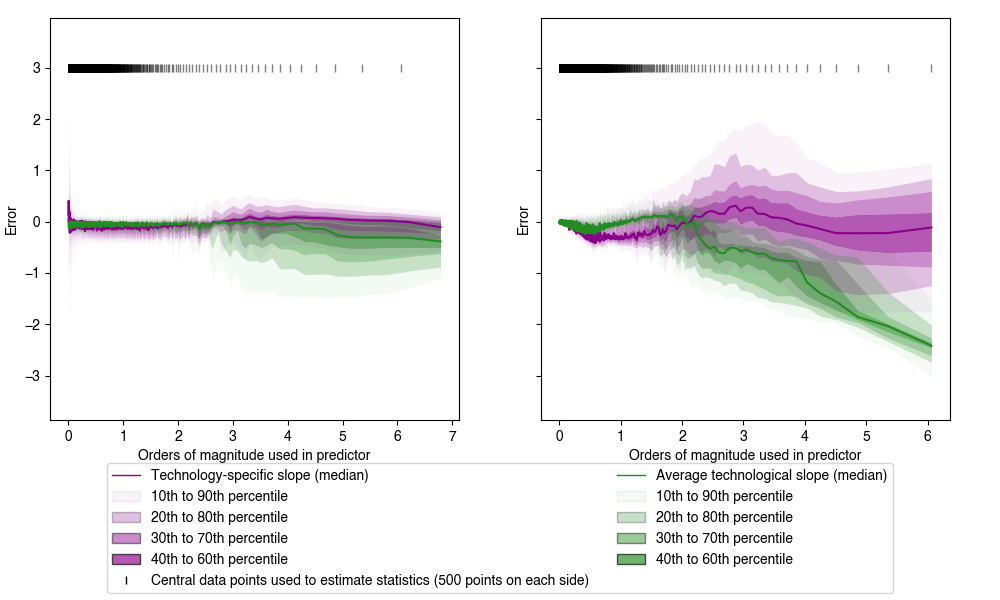
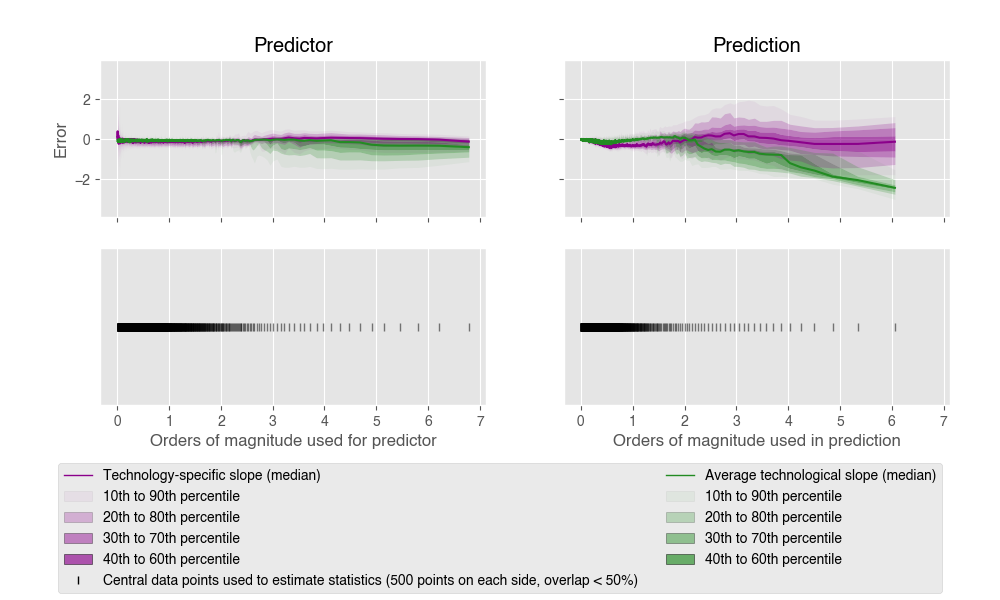
updated figures for clarity

diff --git a/Method2.py b/Method2.py
@@ -8,7 +8,7 @@ from mpl_toolkits.mplot3d import axes3d
 import cmcrameri as cm
 rc('font',**{'family':'sans-serif','sans-serif':['Helvetica']})
 matplotlib.rcParams['pdf.fonttype'] = 42
-
+matplotlib.style.use('ggplot')
 df = pd.read_csv('ExpCurves.csv')
 # df = pd.read_csv('NormalizedExpCurves.csv')
 # df['Cumulative production'] = df['Normalized cumulative production']
@@ -149,50 +149,48 @@ ptiles2_or = np.array(ptiles2_or)
 ptiles_on = np.array(ptiles_on)
 ptiles2_on = np.array(ptiles2_on)
 
-fig, ax = plt.subplots(1,2, sharey=True, figsize=(10,6))
-ax[0].plot(dxsor_plot, ptiles_or[:,4], color='darkmagenta')
-ax[0].plot(dxsor_plot, ptiles2_or[:,4], color='forestgreen')
+fig, ax = plt.subplots(2,2, sharey='row', figsize=(10,6), sharex=True)
+ax[0][0].plot(dxsor_plot, ptiles_or[:,4], color='darkmagenta')
+ax[0][0].plot(dxsor_plot, ptiles2_or[:,4], color='forestgreen')
 for idx in range(3,-1,-1):
-	ax[0].fill_between(dxsor_plot, ptiles_or[:,idx], 
+	ax[0][0].fill_between(dxsor_plot, ptiles_or[:,idx], 
 		    ptiles_or[:,idx+1], alpha=0.05+idx*0.2,
 			  color='darkmagenta', lw=0)
-	ax[0].fill_between(dxsor_plot, ptiles_or[:,-idx-1], 
+	ax[0][0].fill_between(dxsor_plot, ptiles_or[:,-idx-1], 
 		    ptiles_or[:,-(idx+1)-1], alpha=0.05+idx*0.2,
 			  color='darkmagenta', lw=0)
-	ax[0].fill_between(dxsor_plot, ptiles2_or[:,idx], 
+	ax[0][0].fill_between(dxsor_plot, ptiles2_or[:,idx], 
 		    ptiles2_or[:,idx+1], alpha=0.05+idx*0.2,
 			  color='forestgreen', lw=0)
-	ax[0].fill_between(dxsor_plot, ptiles2_or[:,-idx-1], 
+	ax[0][0].fill_between(dxsor_plot, ptiles2_or[:,-idx-1], 
 		    ptiles2_or[:,-(idx+1)-1], alpha=0.05+idx*0.2,
 			  color='forestgreen', lw=0)
-ax02 = ax[0].twinx()
-ax02.plot(dxsor_plot, count_or, color='k', zorder=-1)
-ax02.set_yscale('log', base=10)
-ax02.set_ylabel('Number of data points')
-ax[0].set_xlabel('Orders of magnitude used in predictor')
-ax[0].set_ylabel('Error')
+ax[1][0].plot(dxsor_plot, count_or, color='k', zorder=-1)
+ax[1][0].set_yscale('log', base=10)
+ax[1][0].set_ylabel('Number of data points')
+ax[1][0].set_xlabel('Orders of magnitude used for predictor')
+ax[0][0].set_ylabel('Error')
 
-ax[1].plot(dxson_plot, ptiles_on[:,4], color='darkmagenta')
-ax[1].plot(dxson_plot, ptiles2_on[:,4], color='forestgreen')
+ax[0][1].plot(dxson_plot, ptiles_on[:,4], color='darkmagenta')
+ax[0][1].plot(dxson_plot, ptiles2_on[:,4], color='forestgreen')
 for idx in range(3,-1,-1):
-	ax[1].fill_between(dxson_plot, ptiles_on[:,idx], 
+	ax[0][1].fill_between(dxson_plot, ptiles_on[:,idx], 
 		    ptiles_on[:,idx+1], alpha=0.05+idx*0.2,
 			  color='darkmagenta', lw=0)
-	ax[1].fill_between(dxson_plot, ptiles_on[:,-idx-1], 
+	ax[0][1].fill_between(dxson_plot, ptiles_on[:,-idx-1], 
 		    ptiles_on[:,-(idx+1)-1], alpha=0.05+idx*0.2,
 			  color='darkmagenta', lw=0)
-	ax[1].fill_between(dxson_plot, ptiles2_on[:,idx], 
+	ax[0][1].fill_between(dxson_plot, ptiles2_on[:,idx], 
 		    ptiles2_on[:,idx+1], alpha=0.05+idx*0.2,
 			  color='forestgreen', lw=0)
-	ax[1].fill_between(dxson_plot, ptiles2_on[:,-idx-1], 
+	ax[0][1].fill_between(dxson_plot, ptiles2_on[:,-idx-1], 
 		    ptiles2_on[:,-(idx+1)-1], alpha=0.05+idx*0.2,
 			  color='forestgreen', lw=0)
-ax12 = ax[1].twinx()
-ax12.plot(dxson_plot, count_on, color='k', zorder=-1)
-ax12.set_yscale('log', base=10)
-ax12.set_ylabel('Number of data points')
-ax[1].set_xlabel('Orders of magnitude used in prediction')
-ax[1].set_ylabel('Error')
+ax[1][1].plot(dxson_plot, count_on, color='k')
+ax[1][1].set_yscale('log', base=10)
+# ax[1][1].set_ylabel('Number of data points')
+ax[1][1].set_xlabel('Orders of magnitude used in prediction')
+# ax[0][1].set_ylabel('Error')
 
 legend_elements = [matplotlib.lines.Line2D([0],[0], color='darkmagenta', lw=1, label='Technology-specific slope (median)'),
 		   matplotlib.lines.Line2D([0],[0], color='forestgreen', lw=1, label='Average technological slope (median)'),
@@ -204,11 +202,14 @@ legend_elements = [matplotlib.lines.Line2D([0],[0], color='darkmagenta', lw=1, l
 		   matplotlib.patches.Patch(facecolor='forestgreen', edgecolor='k', alpha=0.45, label='30th to 70th percentile'),
 		   matplotlib.patches.Patch(facecolor='darkmagenta', edgecolor='k', alpha=0.65, label='40th to 60th percentile'),
 		   matplotlib.patches.Patch(facecolor='forestgreen', edgecolor='k', alpha=0.65, label='40th to 60th percentile'),
-		   matplotlib.lines.Line2D([0],[0], color='k', lw=1, label='Number of data points used to estimate statistics')]
+		   matplotlib.lines.Line2D([0],[0], color='k', lw=1, label='Number of data points used to estimate statistics ('+str(int(ndx))+' intervals)')]
 order = [0,2,4,6,8,10,1,3,5,7,9]
 legend_elements = [legend_elements[x] for x in order]
 fig.legend(handles=legend_elements, ncol=2, loc='lower center')
-fig.subplots_adjust(bottom=0.3, right=0.95, left=0.05, top=0.97)
+fig.subplots_adjust(bottom=0.325, right=0.95, left=0.1, top=0.9)
+ax[0][0].set_title('Predictor')
+ax[0][1].set_title('Prediction')
+# plt.show()
 
 # plt.show()
 
@@ -243,44 +244,46 @@ ptiles2_or = np.array(ptiles2_or)
 ptiles_on = np.array(ptiles_on)
 ptiles2_on = np.array(ptiles2_on)
 
-fig, ax = plt.subplots(1,2, sharey=True, figsize=(10,6))
-ax[0].plot(xaxor, ptiles_or[:,4], color='darkmagenta')
-ax[0].plot(xaxor, ptiles2_or[:,4], color='forestgreen')
+fig, ax = plt.subplots(2,2, sharey='row', figsize=(10,6), sharex=True)
+ax[0][0].plot(xaxor, ptiles_or[:,4], color='darkmagenta')
+ax[0][0].plot(xaxor, ptiles2_or[:,4], color='forestgreen')
 for idx in range(3,-1,-1):
-	ax[0].fill_between(xaxor, ptiles_or[:,idx], 
+	ax[0][0].fill_between(xaxor, ptiles_or[:,idx], 
 		    ptiles_or[:,idx+1], alpha=0.05+idx*0.2,
 			  color='darkmagenta', lw=0)
-	ax[0].fill_between(xaxor, ptiles_or[:,-idx-1], 
+	ax[0][0].fill_between(xaxor, ptiles_or[:,-idx-1], 
 		    ptiles_or[:,-(idx+1)-1], alpha=0.05+idx*0.2,
 			  color='darkmagenta', lw=0)
-	ax[0].fill_between(xaxor, ptiles2_or[:,idx], 
+	ax[0][0].fill_between(xaxor, ptiles2_or[:,idx], 
 		    ptiles2_or[:,idx+1], alpha=0.05+idx*0.2,
 			  color='forestgreen', lw=0)
-	ax[0].fill_between(xaxor, ptiles2_or[:,-idx-1], 
+	ax[0][0].fill_between(xaxor, ptiles2_or[:,-idx-1], 
 		    ptiles2_or[:,-(idx+1)-1], alpha=0.05+idx*0.2,
 			  color='forestgreen', lw=0)
-ax[0].set_xlabel('Orders of magnitude used in predictor')
-ax[0].set_ylabel('Error')
+ax[1][0].set_xlabel('Orders of magnitude used for predictor')
+ax[0][0].set_ylabel('Error')
 
-ax[1].plot(xaxon, ptiles_on[:,4], color='darkmagenta')
-ax[1].plot(xaxon, ptiles2_on[:,4], color='forestgreen')
+ax[0][1].plot(xaxon, ptiles_on[:,4], color='darkmagenta')
+ax[0][1].plot(xaxon, ptiles2_on[:,4], color='forestgreen')
 for idx in range(3,-1,-1):
-	ax[1].fill_between(xaxon, ptiles_on[:,idx], 
+	ax[0][1].fill_between(xaxon, ptiles_on[:,idx], 
 		    ptiles_on[:,idx+1], alpha=0.05+idx*0.2,
 			  color='darkmagenta', lw=0)
-	ax[1].fill_between(xaxon, ptiles_on[:,-idx-1], 
+	ax[0][1].fill_between(xaxon, ptiles_on[:,-idx-1], 
 		    ptiles_on[:,-(idx+1)-1], alpha=0.05+idx*0.2,
 			  color='darkmagenta', lw=0)
-	ax[1].fill_between(xaxon, ptiles2_on[:,idx], 
+	ax[0][1].fill_between(xaxon, ptiles2_on[:,idx], 
 		    ptiles2_on[:,idx+1], alpha=0.05+idx*0.2,
 			  color='forestgreen', lw=0)
-	ax[1].fill_between(xaxon, ptiles2_on[:,-idx-1], 
+	ax[0][1].fill_between(xaxon, ptiles2_on[:,-idx-1], 
 		    ptiles2_on[:,-(idx+1)-1], alpha=0.05+idx*0.2,
 			  color='forestgreen', lw=0)
-ax[1].set_xlabel('Orders of magnitude used in predictor')
-ax[1].set_ylabel('Error')
-ax[0].plot(xaxon, 3*np.ones(len(xaxon)), color='k', marker='|',lw=0, alpha=0.5)
-ax[1].plot(xaxon, 3*np.ones(len(xaxon)), color='k', marker='|',lw=0, alpha=0.5)
+ax[1][1].set_xlabel('Orders of magnitude used in prediction')
+# ax[0][1].set_ylabel('Error')
+
+ax[1][0].plot(xaxor, 3*np.zeros(len(xaxor)), color='k', marker='|',lw=0, alpha=0.5)
+ax[1][1].plot(xaxon, 3*np.zeros(len(xaxon)), color='k', marker='|',lw=0, alpha=0.5)
+
 legend_elements = [matplotlib.lines.Line2D([0],[0], color='darkmagenta', lw=1, label='Technology-specific slope (median)'),
 		   matplotlib.lines.Line2D([0],[0], color='forestgreen', lw=1, label='Average technological slope (median)'),
 		   matplotlib.patches.Patch(facecolor='darkmagenta', edgecolor='k', alpha=0.05, label='10th to 90th percentile'),
@@ -291,11 +294,17 @@ legend_elements = [matplotlib.lines.Line2D([0],[0], color='darkmagenta', lw=1, l
 		   matplotlib.patches.Patch(facecolor='forestgreen', edgecolor='k', alpha=0.45, label='30th to 70th percentile'),
 		   matplotlib.patches.Patch(facecolor='darkmagenta', edgecolor='k', alpha=0.65, label='40th to 60th percentile'),
 		   matplotlib.patches.Patch(facecolor='forestgreen', edgecolor='k', alpha=0.65, label='40th to 60th percentile'),
-		   matplotlib.lines.Line2D([0],[0], color='k', lw=0, marker='|', label='Central data points used to estimate statistics ('+str(hnpoints)+' points on each side)')]
+		   matplotlib.lines.Line2D([0],[0], color='k', lw=0, marker='|', label='Central data points used to estimate statistics ('+str(hnpoints)+' points on each side, overlap < 50%)')]
 order = [0,2,4,6,8,10,1,3,5,7,9]
 legend_elements = [legend_elements[x] for x in order]
 fig.legend(handles=legend_elements, ncol=2, loc='lower center')
-fig.subplots_adjust(bottom=0.3, right=0.95, left=0.05, top=0.97)
+fig.subplots_adjust(bottom=0.325, right=0.95, left=0.1, top=0.9)
+ax[0][0].set_title('Predictor')
+ax[0][1].set_title('Prediction')
+ax[1][0].set_yticks([])
+ax[1][0].yaxis.grid(False)
+ax[1][1].set_yticks([])
+ax[1][1].yaxis.grid(False)
 plt.show()
 
 
